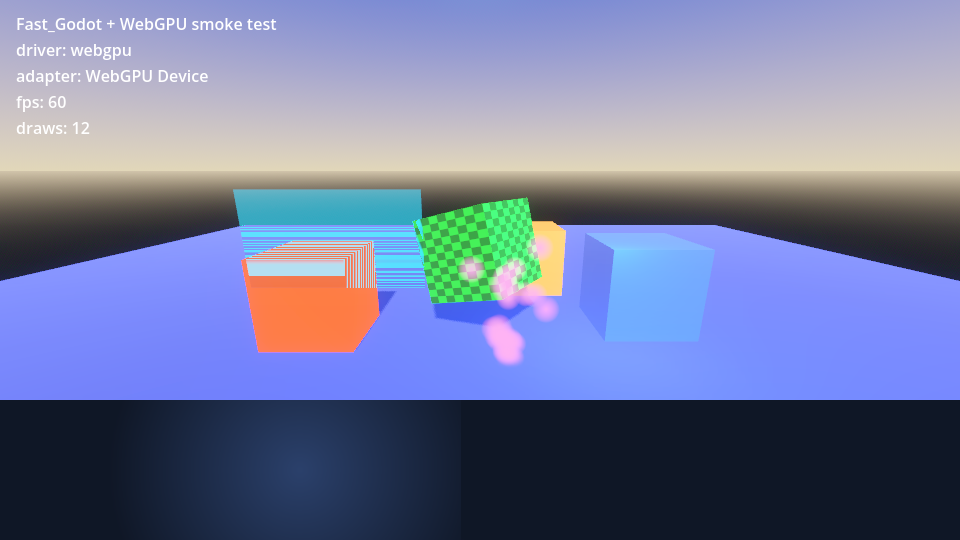
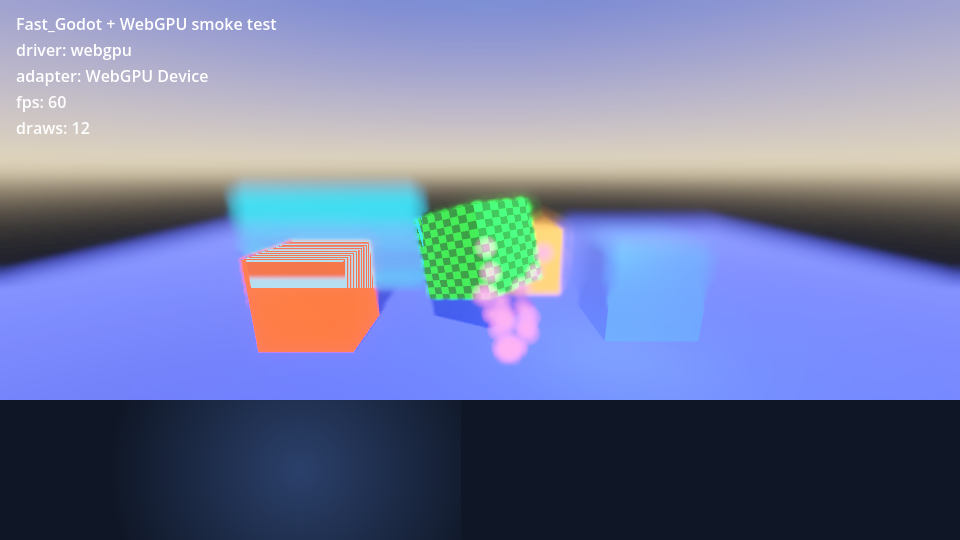
webgpu: exercise depth of field and fix its 1x depth binding
- scene: add far-field DOF (CameraAttributesPractical) and GPU particle trails
  to the smoke project; DOF makes bokeh_dof_raster sample the depth copy at
  post-process time.
- renderer: the raster DOF path now always samples RB_TEX_BACK_DEPTH. With MSAA
  off it bound the raw depth attachment, which WebGPU cannot sample as a float
  texture, so DOF read zeros. The back depth is filled whenever DoF is enabled
  (DoF sets used_depth_texture, so the depth copy runs before post-processing)
  on every backend.
- docs: refresh the smoke screenshots (DOF visible).

Verified with 4x MSAA and MSAA off on the debug and release templates, and the
Grit HTML5 Fast release export: 60 FPS, zero validation errors.

Changed region(s): [[0.0, 0.3259, 1.0, 0.6519]]

diff --git a/servers/rendering/renderer_rd/renderer_scene_render_rd.cpp b/servers/rendering/renderer_rd/renderer_scene_render_rd.cpp
@@ -550,7 +550,11 @@ void RendererSceneRenderRD::_render_buffers_post_process_and_tonemap(const Rende
 
 			for (uint32_t i = 0; i < rb->get_view_count(); i++) {
 				buffers.base_texture = use_upscaled_texture ? rb->get_upscaled_texture(i) : rb->get_internal_texture(i);
-				buffers.depth_texture = p_use_msaa ? rb->get_texture_slice(RB_SCOPE_BUFFERS, RB_TEX_BACK_DEPTH, i, 0) : rb->get_depth_texture(i);
+				// Always sample the back depth: the raw depth attachment cannot be
+				// sampled as a float texture on WebGPU, and the back depth is filled
+				// whenever DoF is enabled (DoF sets used_depth_texture, which makes
+				// the depth copy run before post-processing).
+				buffers.depth_texture = rb->get_texture_slice(RB_SCOPE_BUFFERS, RB_TEX_BACK_DEPTH, i, 0);
 				buffers.base_fb = FramebufferCacheRD::get_singleton()->get_cache(buffers.base_texture); // TODO move this into bokeh_dof_raster, we can do this internally
 
 				// In stereo p_render_data->z_near and p_render_data->z_far can be offset for our combined frustum.
